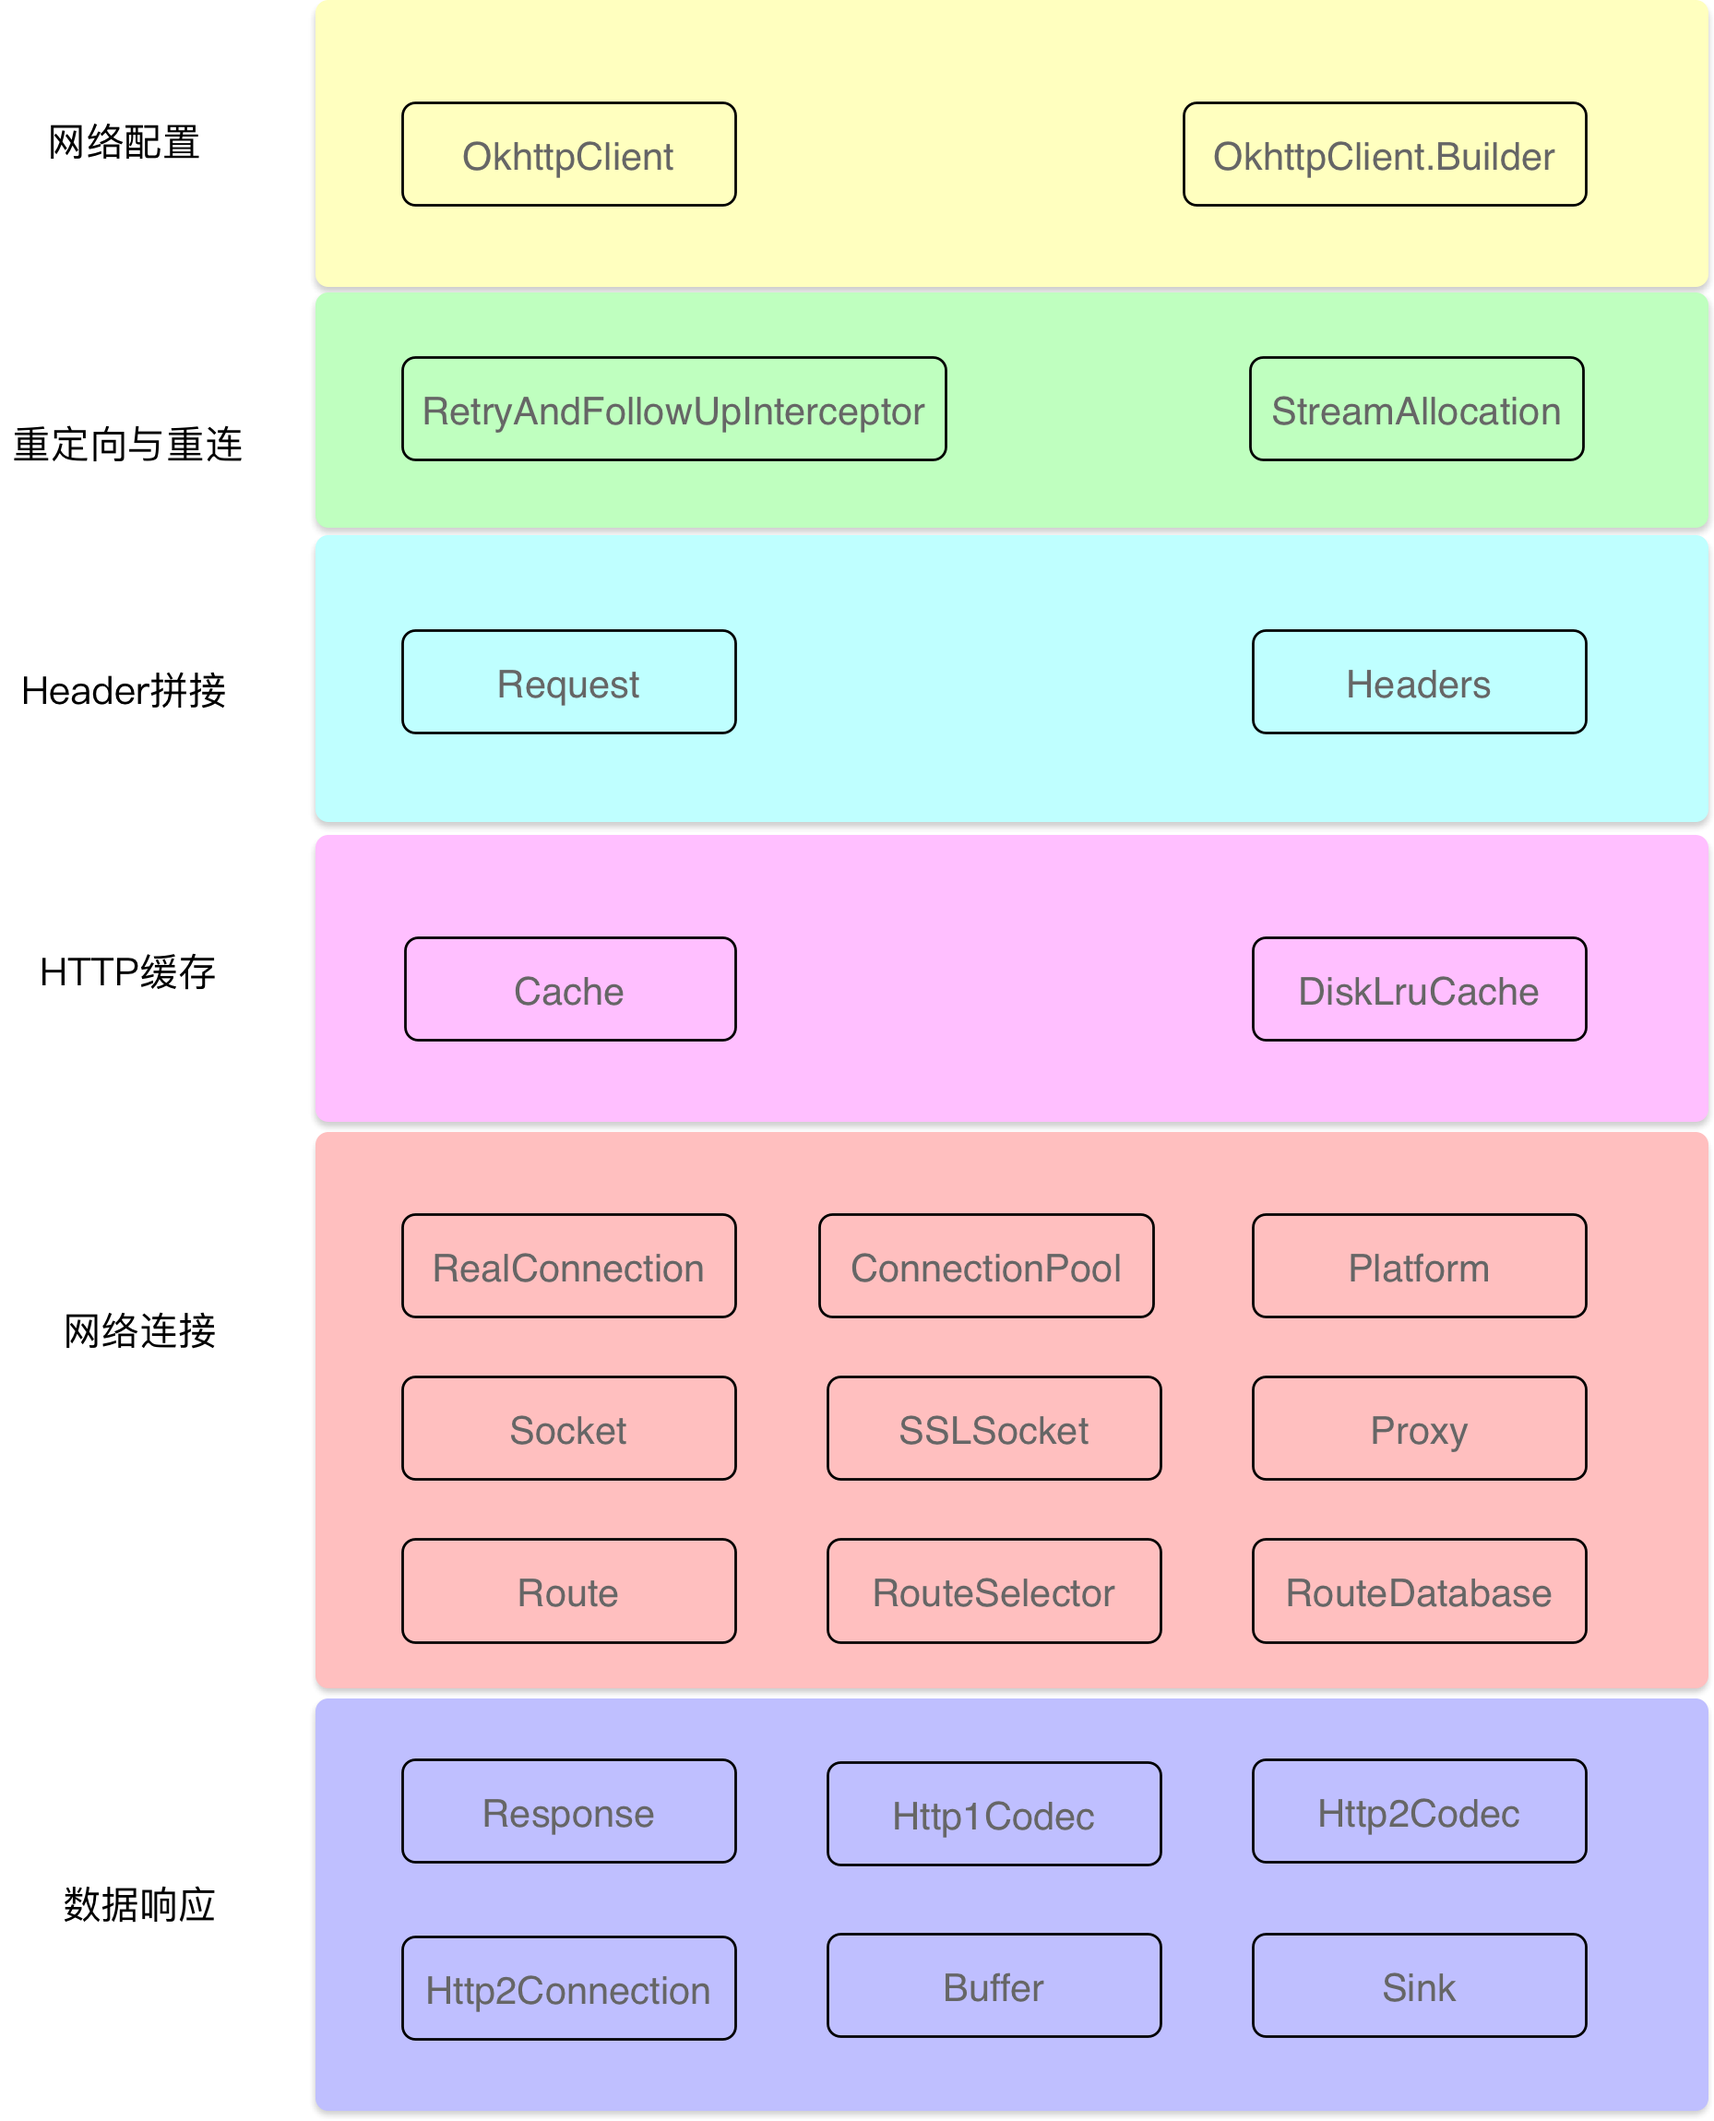
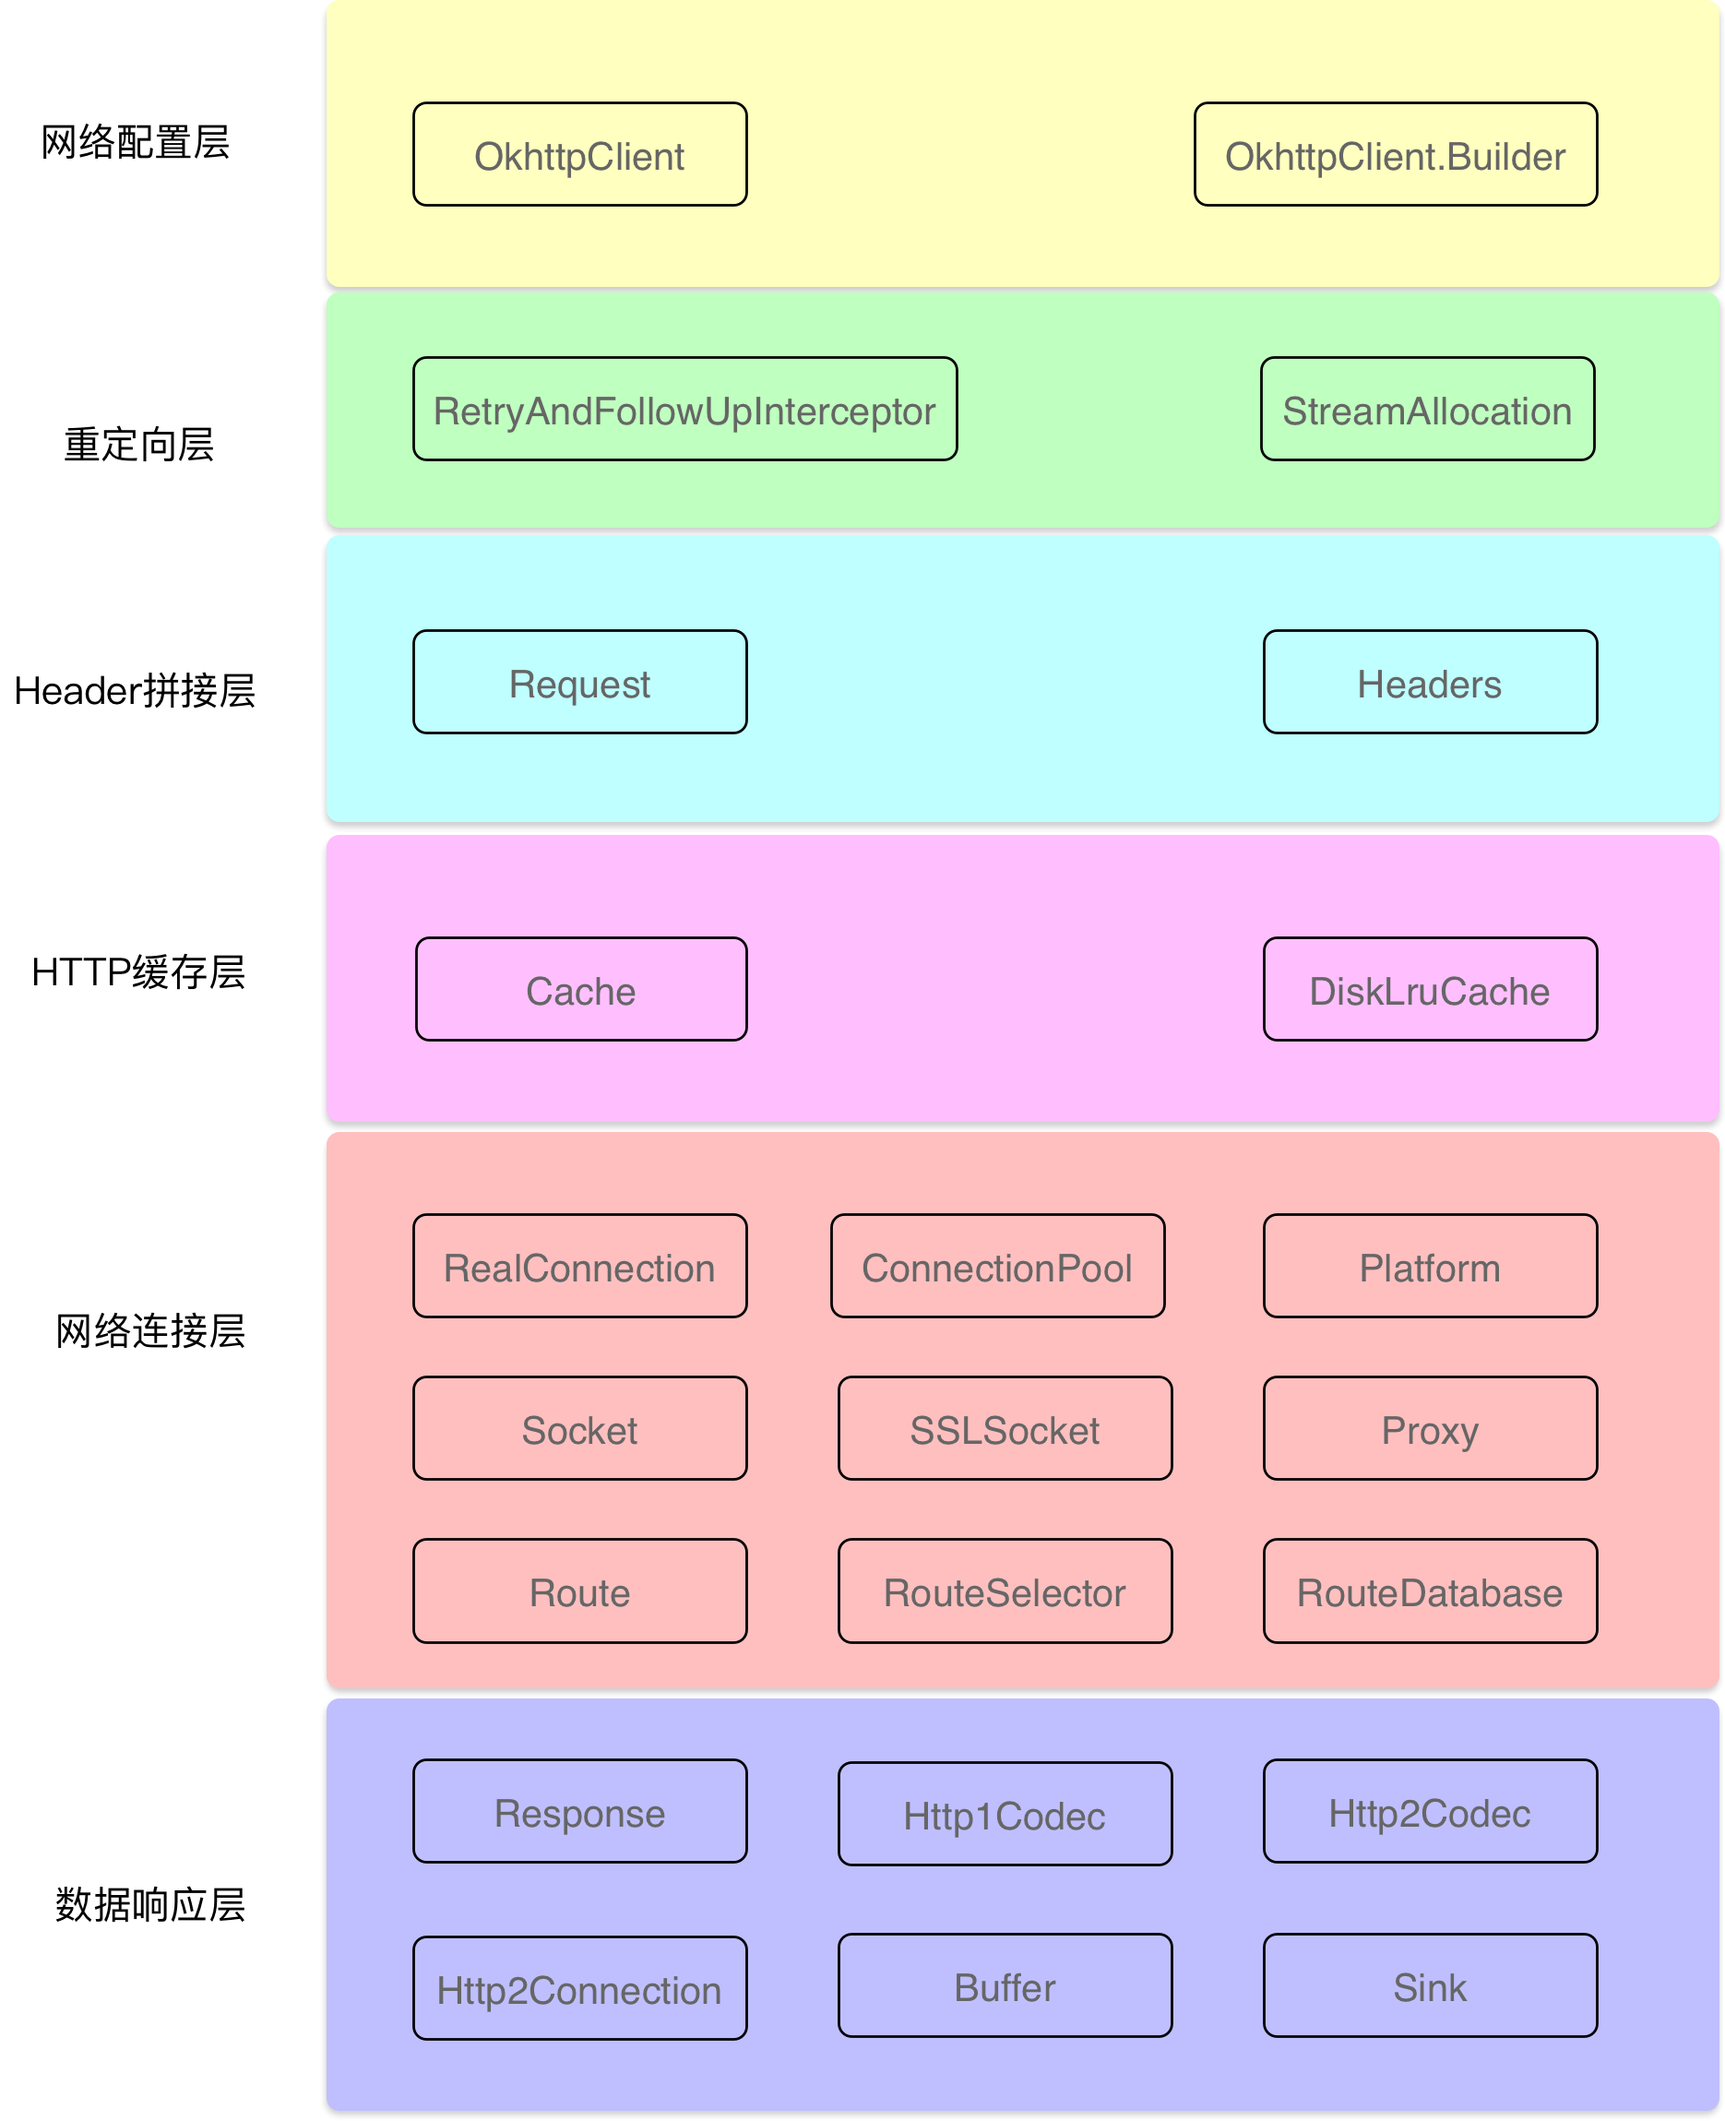
document: okhttp

diff --git a/doc/源码分析/02Android开源框架源码分析：Okhttp.md b/doc/源码分析/02Android开源框架源码分析：Okhttp.md
@@ -6,10 +6,16 @@
 
 **文章目录**
 
-- 一 请求流程
-- 二 缓存机制
-- 一 连接机制
-- 一 编解码机制
+- 一 请求与响应流程
+    - 1.1 请求的封装
+    - 1.2 请求的发送
+    - 1.3 请求的调度
+- 二 拦截器
+    - 2.1 RetryAndFollowUpInterceptor
+    - 2.2 BridgeInterceptor
+    - 2.3 CacheInterceptor
+    - 2.4 ConnectInterceptor
+    - 2.5 CallServerInterceptor
 
 在Android刀耕火种的哪个年代，我们做网络请求通常会选用HttpURLConnection或者Apache HTTP Client，这两者均支持HTTPS、流的上传和下载、配置超时和连接池等特性，但随着业务场景的负责化以及
 对流量消耗的优化需求，Okhttp应运而生，自诞生起，口碑就一直很好。
@@ -56,9 +62,11 @@ Okhttp的子系统层级结构图如下所示：
 <img src="https://github.com/guoxiaoxing/android-open-framwork-analysis/raw/master/art/okhttp/okhttp_structure.png" width="600"/>
 
 - 网络配置层：利用Builder模式配置各种参数，例如：超时时间、拦截器等，这些参数都会由Okhttp分发给各个需要的子系统。
+- 重定向层：负责重定向。
+- Header拼接层：负责把用户构造的请求转换为发送给服务器的请求，把服务器返回的响应转换为对用户友好的响应。
+- HTTP缓存层：负责读取缓存以及更新缓存。
 - 连接层：连接层是一个比较复杂的层级，它实现了网络协议、内部的拦截器、安全性认证，连接与连接池等功能，但这一层还没有发起真正的连接，它只是做了连接器一些参数的处理。
-- 平台适配层：该层针对Android2.3到Android5.0以后的网络请求做适配处理。
-- 数据层：该层是与服务端利用Socket真正建立连接的地方。
+- 数据响应层：负责从服务器读取响应的数据。
 
 在整个Okhttp的系统中，我们还要理解以下几个关键角色：
 
@@ -83,6 +91,8 @@ Okhttp的整个请求与响应的流程就是Dispatcher不断从Request Queue里
 
 一图胜千言，我们来看一下整个的流程图，如下所示：
 
+👉 点击图片查看大图
+
 <img src="https://github.com/guoxiaoxing/android-open-framwork-analysis/raw/master/art/okhttp/request_and_response_structure.png"/>
 
 读者仔细看一下这个流程图，是不是很像计算机网络的OSI七层模型，Okhttp正式采用这种思路，利用拦截器Interceptor将整套框架纵向分层，简化了设计逻辑，提升了框架扩展性。
@@ -96,6 +106,8 @@ Okhttp的整个请求与响应的流程就是Dispatcher不断从Request Queue里
 带着以上问题，我们去源码中一探究竟。
 
 我们先来看一下具体的函数调用链，请求与响应的序列图如下所示：
+
+👉 点击图片查看大图
 
 <img src="https://github.com/guoxiaoxing/android-open-framwork-analysis/raw/master/art/okhttp/request_and_response_sequence.png"/>
 
@@ -337,7 +349,7 @@ final class RealCall implements Call {
 短短几行代码，完成了对请求的所有处理过程，Interceptor将网络请求、缓存、透明压缩等功能统一了起来，它的实现采用责任链模式，各司其职，
 每个功能都是一个Interceptor，上一级处理完成以后传递给下一级，它们最后连接成了一个Interceptor.Chain。它们的功能如下：
 
-- RetryAndFollowUpInterceptor：负责失败重试以及重定向。
+- RetryAndFollowUpInterceptor：负责重定向。
 - BridgeInterceptor：负责把用户构造的请求转换为发送给服务器的请求，把服务器返回的响应转换为对用户友好的响应。
 - CacheInterceptor：负责读取缓存以及更新缓存。
 - ConnectInterceptor：负责与服务器建立连接。
@@ -374,7 +386,6 @@ Okhttp内置的拦截器如下所示：
 - CacheInterceptor：负责读取缓存以及更新缓存。
 - ConnectInterceptor：负责与服务器建立连接。
 - CallServerInterceptor：负责从服务器读取响应的数据。
-
 
 我们继续来看看RealInterceptorChain里是怎么一级级处理的。
 
